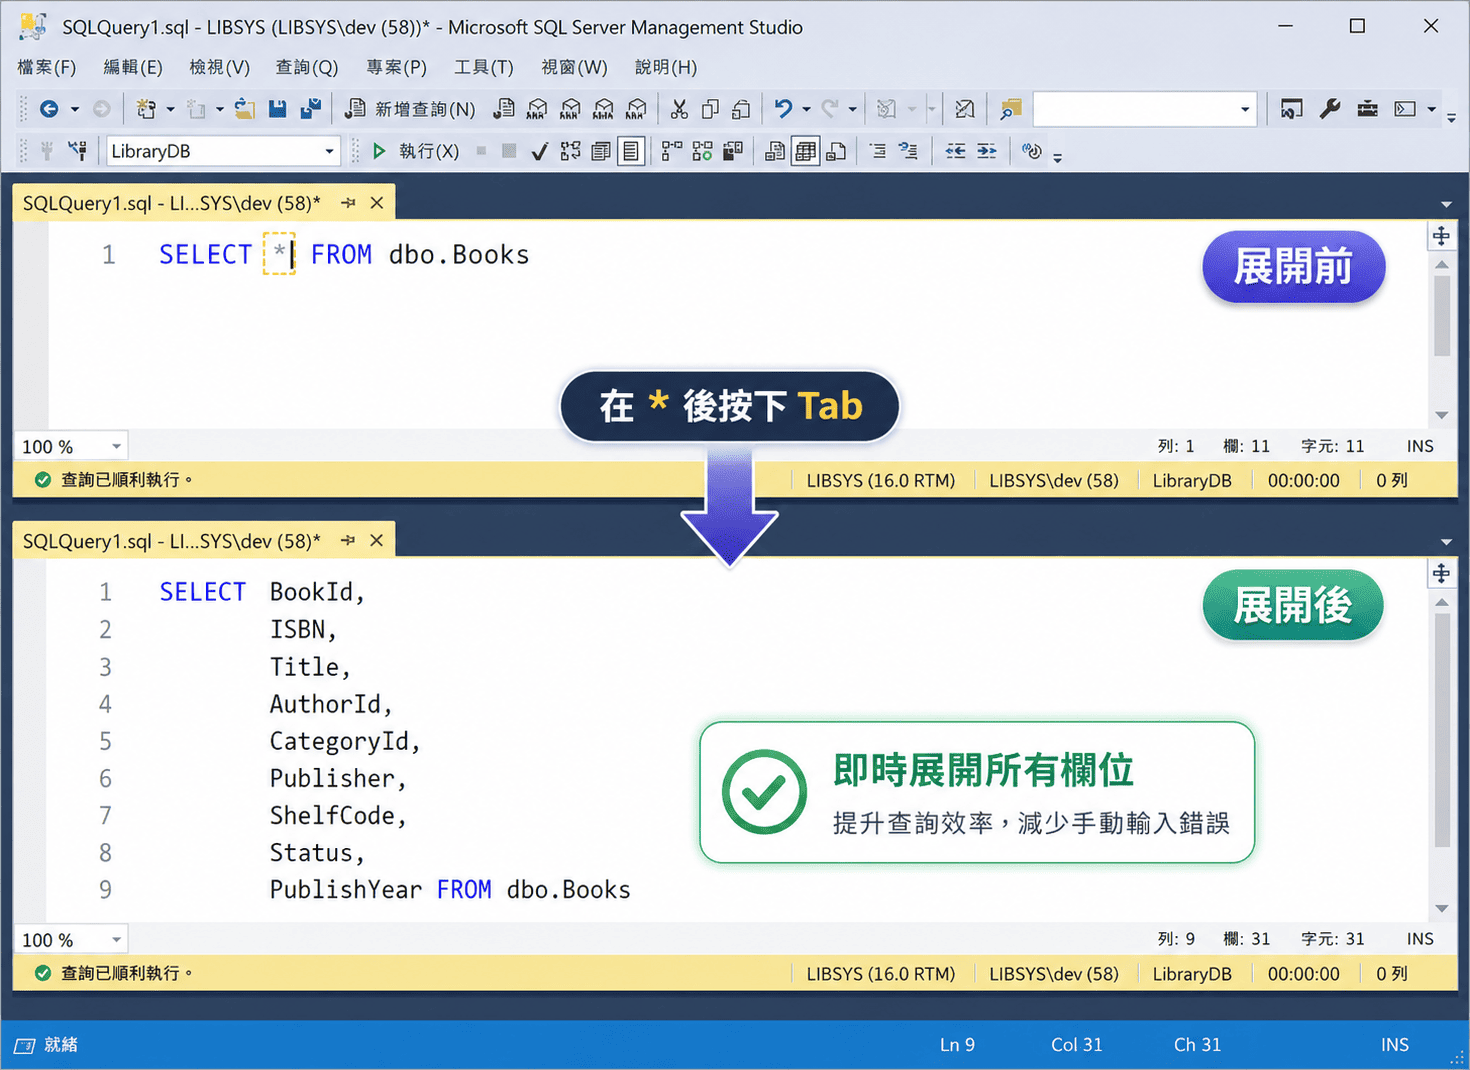
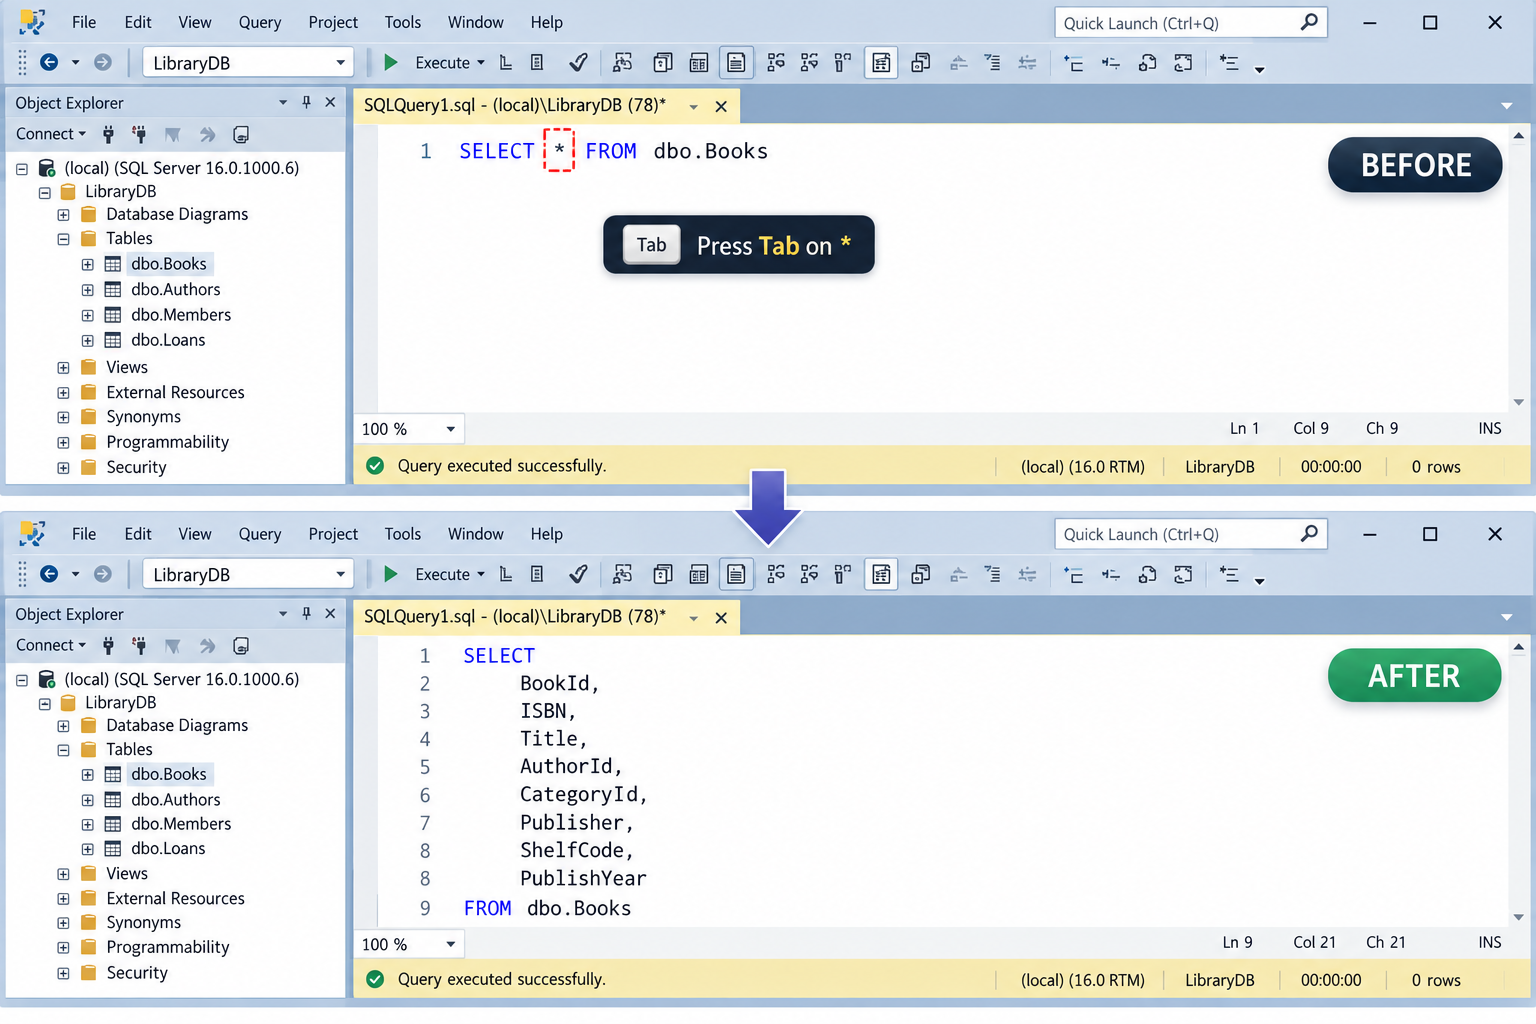
docs: 在中英文 README 加入功能展示圖片

diff --git a/README.md b/README.md
@@ -61,9 +61,32 @@ Place the cursor after `*` and press `Tab` to expand it into an indented, multi-
 Selecting an object in specific syntax positions expands complete, ready-to-run statement scaffolds:
 
 - **`INSERT INTO`**: Selecting a table expands formatted column lists and inserts type-aware default value placeholders in the `VALUES` clause.
+
+  <p align="center">
+    <img src="docs/images/expand-insert-into.png" width="820"
+         alt="Before and after pressing Tab on a table suggestion after INSERT INTO, expanding it into columns and a VALUES block">
+  </p>
+
 - **`EXEC`**: Selecting a stored procedure expands all named parameters, type annotations, and necessary `OUTPUT` variable declarations.
+
+  <p align="center">
+    <img src="docs/images/expand-exec.png" width="820"
+         alt="Before and after committing a stored procedure after EXEC, expanding it into named parameters">
+  </p>
+
 - **`ALTER PROCEDURE / FUNCTION`**: Typing `ap` or `af` and selecting an object inserts its complete, executable definition directly into the editor—ready for in-place modification and execution.
+
+  <p align="center">
+    <img src="docs/images/expand-def-procedure.png" width="820"
+         alt="Before and after committing a stored procedure after ALTER PROCEDURE, loading its complete definition into the editor">
+  </p>
+
 - **`MERGE INTO`**: Selecting a table generates a comprehensive `USING ... ON ... WHEN MATCHED` template.
+
+  <p align="center">
+    <img src="docs/images/expand-merge-into.png" width="820"
+         alt="Before and after committing a table after MERGE INTO, expanding it into a complete MERGE statement template">
+  </p>
 
 ---
 
@@ -84,6 +107,11 @@ Inspect object schemas and underlying definitions without digging through deep O
 ## Result Grid Utilities
 
 After running a query, right-click any selected cells in the result grid to transform data directly in memory, without issuing extra server round-trips:
+
+<p align="center">
+  <img src="docs/images/result-grid-utility.png" width="820"
+       alt="Selected SSMS result grid rows with SqlAssist context-menu commands for copying, scripting, profiling, and viewing full cell content">
+</p>
 
 - **Script as #temp Table**: Generates an executable script containing `CREATE TABLE #SqlAssistRows`, batched `INSERT` statements, and a final `SELECT` in a new query window for instant debugging.
 - **Copy as IN Clause**: Formats selected values into a clean `IN ('val1', 'val2')` predicate ready to paste straight into a `WHERE` clause.

diff --git a/README.zh-TW.md b/README.zh-TW.md
@@ -63,9 +63,32 @@ SQL Server** 查詢，不經過任何雲端服務，也沒有 AI 模型參與。
 在特定語法情境下選取物件，直接補齊整份語句骨架：
 
 - **`INSERT INTO`**：選取資料表後按 Enter，自動產生欄位清單與帶有型別預設值的 `VALUES` 區塊。
+
+  <p align="center">
+    <img src="docs/images/expand-insert-into.png" width="820"
+         alt="在 INSERT INTO 後選取資料表並按下 Tab，從建議清單展開成欄位清單與 VALUES 區塊的前後對照">
+  </p>
+
 - **`EXEC`**：選取預存程序後，自動帶出所有具名參數、型別註解與必要的 `OUTPUT` 變數。
+
+  <p align="center">
+    <img src="docs/images/expand-exec.png" width="820"
+         alt="在 EXEC 後提交預存程序，展開成具名參數清單的前後對照">
+  </p>
+
 - **`ALTER PROCEDURE / FUNCTION`**：打 `ap` 或 `af` 選取物件，整份可執行的定義直接載入編輯器，游標停在名稱後方，原地修改、原地執行。
+
+  <p align="center">
+    <img src="docs/images/expand-def-procedure.png" width="820"
+         alt="在 ALTER PROCEDURE 後提交預存程序，將完整定義載入編輯器的前後對照">
+  </p>
+
 - **`MERGE INTO`**：選取資料表後，自動展開 `USING ... ON ... WHEN MATCHED` 的完整範本。
+
+  <p align="center">
+    <img src="docs/images/expand-merge-into.png" width="820"
+         alt="在 MERGE INTO 後提交資料表，展開成完整 MERGE 語句範本的前後對照">
+  </p>
 
 ---
 
@@ -86,6 +109,11 @@ SQL Server** 查詢，不經過任何雲端服務，也沒有 AI 模型參與。
 ## 查詢結果格線工具
 
 執行查詢後，在結果格線上選取資料並按右鍵，可以直接把格線上的資料轉成後續除錯或分享所需的內容，完全在本地記憶體處理，不發送額外查詢：
+
+<p align="center">
+  <img src="docs/images/result-grid-utility.png" width="820"
+       alt="在 SSMS 查詢結果格線選取多列後開啟右鍵選單，顯示 SqlAssist 的複製、指令碼、欄位剖析與完整內容命令">
+</p>
 
 - **建立 #temp 指令碼**：把選取的資料轉成包含 `CREATE TABLE #SqlAssistRows`、批量 `INSERT` 與 `SELECT` 的完整腳本，在新查詢視窗直接執行。
 - **複製成 IN 條件**：將選取的一至多欄複製為格式正確的 `IN ('val1', 'val2')` 述詞，直接貼進 `WHERE`。
